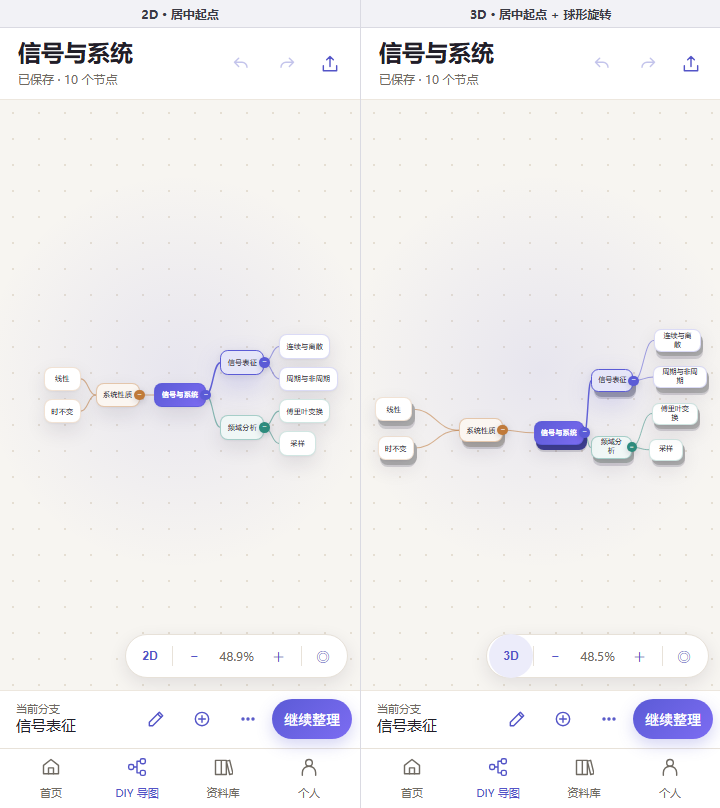
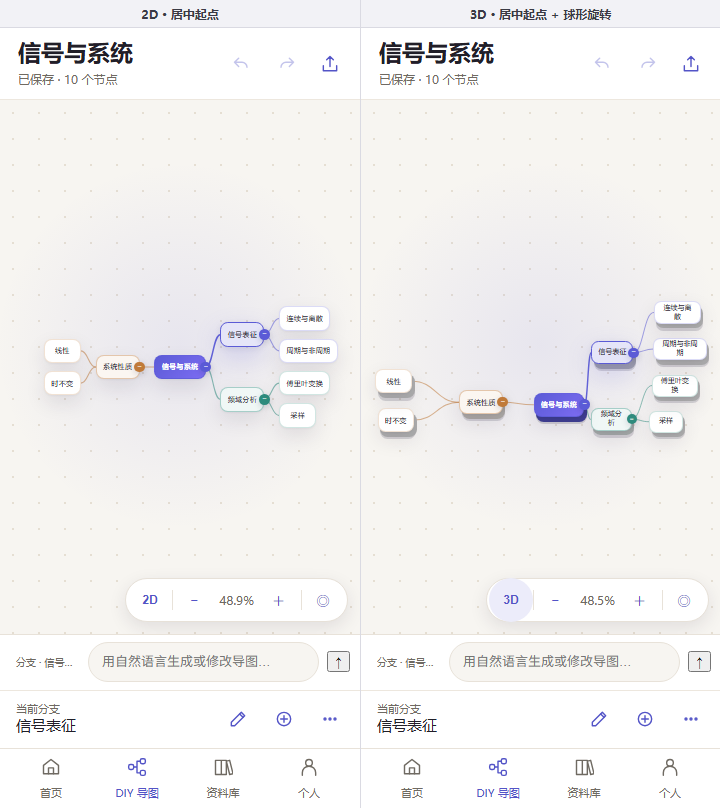
feat(diy): add prominent natural language input
- replace the bottom continue button with a composer showing scope and a natural-language prompt
- open the generation sheet with the input focused and keyboard-ready
- support generating the first map or modifying the whole map/selected branch
- add a simulated candidate flow to the browser preview and document both paths

diff --git a/docs/design/diy-preview.html b/docs/design/diy-preview.html
@@ -40,6 +40,23 @@
   .card.image-card .label{display:block;white-space:nowrap;overflow:hidden;text-overflow:ellipsis;font-weight:500;line-height:1.25}
   .card.image-card .note{display:block;white-space:nowrap;overflow:hidden;text-overflow:ellipsis;color:var(--muted);margin-top:2px;line-height:1.3}
   .card.image-card .tag{position:absolute;top:6px;right:6px;background:rgba(83,84,199,.92);color:#fff;padding:1px 5px;border-radius:6px;font-size:.72em;font-weight:500}
+  .candidate-bar{position:absolute;left:12px;right:12px;top:10px;z-index:4500;background:var(--surface);
+    border:1px solid var(--border);border-radius:16px;padding:12px 14px;box-shadow:0 10px 28px rgba(35,32,60,.14)}
+  .candidate-head{display:flex;align-items:center;justify-content:space-between;gap:8px;font-size:12px;color:var(--muted)}
+  .candidate-head b{font-size:13px;color:var(--accent)}
+  .candidate-bar p{margin:8px 0 10px;font-size:13px;line-height:1.55;color:var(--text)}
+  .candidate-actions{display:flex;gap:8px}
+  .candidate-actions button{height:36px;border:0;border-radius:12px;padding:0 14px;font-size:13px;background:var(--bg);color:var(--text)}
+  .candidate-actions .primary{background:var(--accent);color:#fff;font-weight:600;flex:1}
+  .nl-bar{height:56px;flex:0 0 56px;display:flex;align-items:center;gap:8px;padding:6px 10px 8px 16px;
+    background:var(--surface);border-top:.5px solid var(--border)}
+  .nl-scope{font-size:10px;line-height:1.2;color:var(--muted);max-width:64px;overflow:hidden;text-overflow:ellipsis;white-space:nowrap}
+  .nl-bar input{flex:1;min-width:0;height:40px;border:1px solid var(--border);border-radius:20px;padding:0 13px;
+    background:var(--bg);color:var(--text);font-size:13px}
+  .nl-bar input:focus-visible{outline:2px solid var(--accent);outline-offset:1px}
+  .nl-send{width:40px;height:40px;flex:0 0 40px;border:0;border-radius:20px;background:var(--accent);color:#fff;
+    font-size:18px;font-weight:600;padding:0}
+  html[data-style=soft] .nl-send{background:linear-gradient(135deg,#5B5BD6,#7C6CF2);box-shadow:0 5px 14px rgba(91,91,214,.24)}
   .zoom{position:absolute;right:12px;bottom:12px;height:44px;display:flex;align-items:center;background:var(--surface);
     border:.5px solid var(--border);border-radius:22px;padding:0 2px;z-index:5000;box-shadow:0 2px 10px #0001}
   .zoom button{width:44px;height:44px;border:0;background:transparent;color:var(--accent);display:grid;place-items:center;padding:0;border-radius:22px}
@@ -111,6 +128,14 @@
       <main class="canvas" id="canvas">
         <svg id="edges" aria-hidden="true"></svg>
         <div id="cards"></div>
+        <div class="candidate-bar" id="candidate-bar" hidden>
+          <div class="candidate-head"><b>候选预览</b><span>模拟 AI 修改</span></div>
+          <p id="candidate-text"></p>
+          <div class="candidate-actions">
+            <button id="candidate-discard">放弃</button>
+            <button id="candidate-apply" class="primary">确认应用</button>
+          </div>
+        </div>
         <div class="zoom">
           <button class="mode" id="mode-btn" title="切换 2D / 3D">2D</button>
           <i></i>
@@ -121,12 +146,16 @@
           <button id="fit" aria-label="适应画布">◎</button>
         </div>
       </main>
+      <div class="nl-bar">
+        <span class="nl-scope" id="nl-scope">整张导图</span>
+        <input id="nl-input" autocomplete="off" placeholder="用自然语言生成或修改导图…">
+        <button id="nl-send" aria-label="发送自然语言指令">↑</button>
+      </div>
       <footer class="foot">
         <div class="copy"><label id="scope-label">当前分支</label><strong id="selected-label">信号表征</strong></div>
         <button class="ib" aria-label="编辑"><svg class="icon" viewBox="0 0 24 24"><path d="M4 20h4L20 8l-4-4L4 16v4Z"/><path d="m14 6 4 4"/></svg></button>
         <button class="ib" aria-label="添加子节点"><svg class="icon" viewBox="0 0 24 24"><circle cx="12" cy="12" r="8"/><path d="M12 8v8M8 12h8"/></svg></button>
         <button class="ib" aria-label="更多"><svg class="icon" viewBox="0 0 24 24"><circle cx="6" cy="12" r="1.2"/><circle cx="12" cy="12" r="1.2"/><circle cx="18" cy="12" r="1.2"/></svg></button>
-        <button class="chat">继续整理</button>
       </footer>
       <nav class="nav">
         <div><svg class="icon" viewBox="0 0 24 24"><path d="m3 10 9-7 9 7v10H3Z"/><path d="M9 20v-7h6v7"/></svg>首页</div>
@@ -249,7 +278,8 @@
     zoom: 1,
     panX: 0,
     panY: 0,
-    rotation: orientationMatrix(initialYaw, initialPitch)
+    rotation: orientationMatrix(initialYaw, initialPitch),
+    pending: null
   };
   document.documentElement.dataset.style = state.style;
   if (params.get('embed') === '1') document.body.classList.add('embed');
@@ -258,6 +288,11 @@
   const edges = document.getElementById('edges');
   const cards = document.getElementById('cards');
   const zoomLabel = document.getElementById('zoom-label');
+  const nlInput = document.getElementById('nl-input');
+  const nlSend = document.getElementById('nl-send');
+  const nlScope = document.getElementById('nl-scope');
+  const candidateBar = document.getElementById('candidate-bar');
+  const candidateText = document.getElementById('candidate-text');
 
   function nodeLines(text) {
     const lines = [];
@@ -735,6 +770,8 @@
     const whole = selectedNode.id === rootId;
     document.getElementById('selected-label').textContent = selectedNode.text;
     document.getElementById('scope-label').textContent = whole ? '整张导图' : '当前分支';
+    nlScope.textContent = whole ? '整图' : '分支';
+    nlScope.title = whole ? '整张导图' : '当前分支 · ' + selectedNode.text;
     document.getElementById('status').textContent = '已保存 · ' + scene.nodes.length + ' 个节点';
     zoomLabel.textContent = state.zoom > 0 ? (Math.round(state.zoom * 1000) / 10) + '%' : '—';
     document.getElementById('meta-mode').textContent = state.mode === '3d' ? '3D' : '2D';
@@ -774,6 +811,9 @@
     nodes = sample === 'complex' ? complexNodes : simpleNodes;
     state.selectedId = 'signal';
     state.initialized = false;
+    state.pending = null;
+    candidateBar.hidden = true;
+    nlInput.value = '';
     updateUrl();
     settleView();
   }
@@ -816,6 +856,56 @@
     target.collapsed = !target.collapsed;
     render();
   });
+  let nlBusy = false;
+  function sendNaturalLanguage() {
+    const text = nlInput.value.trim();
+    if (!text || nlBusy || state.pending) return;
+    const parentId = state.selectedId;
+    const parent = nodes.find(node => node.id === parentId) || nodes[0];
+    nlBusy = true;
+    nlInput.disabled = true;
+    nlSend.disabled = true;
+    nlSend.textContent = '…';
+    candidateBar.hidden = true;
+    setTimeout(() => {
+      nlBusy = false;
+      nlInput.disabled = false;
+      nlSend.disabled = false;
+      nlSend.textContent = '↑';
+      state.pending = {parentId, text};
+      const short = text.length > 36 ? text.slice(0, 36) + '…' : text;
+      candidateText.textContent = `在“${parent.text}”下新增分支：“${short}”`;
+      candidateBar.hidden = false;
+      nlInput.value = '';
+    }, 520);
+  }
+  function applyNaturalLanguage() {
+    const pending = state.pending;
+    if (!pending) return;
+    const parent = nodes.find(node => node.id === pending.parentId) || nodes[0];
+    const siblings = nodes.filter(node => node.parentId === parent.id);
+    const order = siblings.reduce((max, node) => Math.max(max, node.order + 1), 0);
+    const id = 'nl_' + Date.now().toString(36);
+    nodes.push({id, parentId: parent.id, order, text: pending.text.slice(0, 30),
+      note: '由自然语言生成（模拟）', collapsed: false});
+    parent.collapsed = false;
+    state.pending = null;
+    candidateBar.hidden = true;
+    state.selectedId = id;
+    render();
+    focusOn(id, 0.62);
+  }
+  function discardNaturalLanguage() {
+    state.pending = null;
+    candidateBar.hidden = true;
+    nlInput.focus();
+  }
+  nlSend.addEventListener('click', sendNaturalLanguage);
+  nlInput.addEventListener('keydown', event => {
+    if (event.key === 'Enter') { event.preventDefault(); sendNaturalLanguage(); }
+  });
+  document.getElementById('candidate-apply').addEventListener('click', applyNaturalLanguage);
+  document.getElementById('candidate-discard').addEventListener('click', discardNaturalLanguage);
   document.querySelectorAll('[data-style]').forEach(button => button.addEventListener('click', () => setStyle(button.dataset.style)));
   document.querySelectorAll('[data-sample]').forEach(button => button.addEventListener('click', () => setSample(button.dataset.sample)));
   document.querySelectorAll('[data-mode]').forEach(button => button.addEventListener('click', () => setMode(button.dataset.mode)));
@@ -856,6 +946,12 @@
   window.addEventListener('resize', () => settleView());
 
   settleView();
+  if (params.get('nl') === 'demo') {
+    setTimeout(() => {
+      nlInput.value = '为每个分支补充一个工程例子';
+      sendNaturalLanguage();
+    }, 200);
+  }
 })();
 </script>
 </body>

diff --git a/docs/implementation/diy-result.md b/docs/implementation/diy-result.md
@@ -45,4 +45,5 @@
 - **空图提示**：仅单根节点时显示“从根节点开始”，不拦截画布手势。
 - **2D / 3D 双视图**：缩放条最左侧新增切换按钮。2D 保持文档的向右/向下平面树；3D 改用居中双向布局，根节点位于场景中心和轨道原点，一级分支左右交替展开。3D 使用 3×3 朝向矩阵和透视相机，默认朝向为 yaw −20° / pitch 20°。节点按 `(x, y, depth*70)` 投影并透视缩放，投影前按层级展开树间距避免卡片重叠。卡片保持正面朝向，绘制“投影阴影 + 右下厚度面 + 顶面”，按相机深度从远到近绘制，选中卡片补绘到最上。
 - **3D 交互**：单指拖动按轨迹球自由旋转——拖动方向决定相机空间旋转轴，没有俯仰上限，也没有万向锁；双指拖动平移、双指捏合缩放；右下角“复位”恢复默认朝向并适应画布。连线、徽标、选中路径和命中测试都使用投影坐标；导出仍使用完整 2D 树。
+- **自然语言输入**：DIY 底部新增常驻入口（修改范围 + “用自然语言生成或修改导图…” + 发送图标）。点击打开“自然语言生成与修改”面板并自动聚焦输入框；空白导图可直接描述主题生成，已有导图按整图或选中分支修改。复用既有 onGenerate、候选预览/应用/放弃、进度/取消/错误流程。
 - **验证**：`npm run check` 通过；`npm test` 132 项全部通过（画布 40 项）。新增 16 项画布测试覆盖隐藏后代计数、选中分支、折叠徽标，以及 3D 居中双向布局、根节点轨道中心、轨迹球旋转、200/500 节点适应、3D 命中、3D 绘制、500 卡片绘制、旋转手势、默认角度不重叠和 2D/3D 切换。本机无 HarmonyOS SDK/真机，未做 ArkTS 编译、原生预览、键盘与手势验收；[2D/3D 对照图](../design/README.md)由预览页面生成，不是原生截图。

diff --git a/docs/design/README.md b/docs/design/README.md
@@ -7,6 +7,7 @@
 - 点击 `2D / 3D` 切换平面画布和球形旋转透视画布；3D 根节点固定在画面中心；
 - 2D 拖动平移；3D 单指拖动像转球一样自由旋转，滚轮缩放，点 `◎` 适应画布，点 `复位球体` 回到默认朝向；
 - 点击节点选中，点击节点右侧 `− / +N` 折叠或展开分支；
+- 底部自然语言入口可以输入“为每个分支补充一个工程例子”等指令，模拟 AI 候选并确认应用；[直接打开候选演示](diy-preview.html?mode=2d&style=soft&nl=demo)；
 - 切换居中起点 / 向右 / 向下布局；居中起点把根节点放在场景和轨道中心，一级分支左右展开。
 - 切换 `柔和立体 / 克制` 两种外观。
 
@@ -25,6 +26,14 @@
 - **克制**：之前的暖白 + 蓝色强调，单色连线，适合更安静的阅读。
 
 两个主题都可在预览页切换。**原生画布目前仍是单色“克制”风格，柔和立体主题尚未接入原生**；确认方向后再移植 Canvas 绘制、分支色和阴影。
+
+## 自然语言输入
+
+- DIY 底部常驻“用自然语言生成或修改导图…”入口，左侧显示整图/分支范围，点击打开输入面板并自动聚焦。
+- 输入指令后预览页会模拟进度和候选：可以放弃，或确认应用后在选中节点下新增分支。
+- 本地演示：[diy-preview.html?mode=2d&style=soft&nl=demo](diy-preview.html?mode=2d&style=soft&nl=demo)
+- 静态截图：[diy-nl-preview.png](diy-nl-preview.png)
+- 预览页是模拟候选；原生 DIY 已接 `onGenerate`、真实模型请求、候选预览/应用/放弃和撤销流程。
 
 ## 复杂图像节点原型
 

diff --git a/docs/screenshots/README.md b/docs/screenshots/README.md
@@ -11,4 +11,4 @@
 
 [320 × 640 vp 小屏首页](home-small.jpg) · [深色画布](diy-dark.jpg) · [飞书计划与逐页微调说明](https://nankai.feishu.cn/wiki/NVVxw1k9Sifu0okTLslcz0dRnbh)
 
-> 2026-11-23：DIY 画布已改为“克制层级”视觉（选中分支整条高亮、一级节点细描边、折叠徽标显示隐藏数量、底部单行工具栏），并新增 2D / 3D 切换；3D 支持根节点居中、单指球形旋转、双指平移/缩放和复位视角。本目录现有 `diy*.jpg` 是调整前的原生预览，不能代表新视觉；候选确认、键盘弹出和真机手势截图仍待 SDK/设备补拍，详见 [DIY 设计说明](../implementation/diy-design.md)。[2D/3D 对照图](../design/README.md)由预览页面生成，不是原生截图。
+> 2026-11-23：DIY 画布已改为“克制层级”视觉（选中分支整条高亮、一级节点细描边、折叠徽标显示隐藏数量），底部新增常驻自然语言入口，并新增 2D / 3D 切换；3D 支持根节点居中、单指球形旋转、双指平移/缩放和复位视角。本目录现有 `diy*.jpg` 是调整前的原生预览，不能代表新视觉；候选确认、键盘弹出和真机手势截图仍待 SDK/设备补拍，详见 [DIY 设计说明](../implementation/diy-design.md)。[2D/3D 对照图](../design/README.md)由预览页面生成，不是原生截图。

diff --git a/docs/implementation/diy-design.md b/docs/implementation/diy-design.md
@@ -44,6 +44,14 @@
 
 对照预览：[2D / 3D 设计预览](../design/README.md)（浏览器复刻，非原生截图）。
 
+## 自然语言输入
+
+- 底部常驻一条自然语言入口：左侧是修改范围（整张导图 / 分支 · 节点名），中间显示“用自然语言生成或修改导图…”，右侧是发送图标。
+- 点击入口打开“自然语言生成与修改”面板，输入框自动获得焦点并弹出键盘；空白导图时提示可以输入一个主题生成第一张导图。
+- 输入框上限 20,000 字；空输入不可发送；生成中显示进度和取消；失败保留输入和对话；候选先在画布预览，确认应用或放弃，AI 修改作为一次撤销单元。
+- 面板顶部继续显示修改范围，非根节点可切换“改为整图”；发送失败、取消、候选过期等状态与原有对话流程一致。
+- 原生实现复用 `onGenerate` → Index 的请求/候选编排；新增的只是入口、自动聚焦和文案，没有新增模型调用路径。
+
 ## 页面结构
 
 ```text

diff --git a/docs/部署与演示.md b/docs/部署与演示.md
@@ -44,7 +44,7 @@ npm run build:harmony
 
 ### 2. 对话修改、冲突与撤销
 
-选择一个非根分支 → 打开继续整理 → 确认范围为“选中分支” → 输入“补充三个工程应用” → 画布显示候选 → 确认应用 → 撤销一次恢复原分支。将范围改成整张导图，再做结构重组。请求期间手动编辑节点，旧候选必须提示过期并拒绝覆盖；取消请求后输入、对话与已有图仍在。
+选择一个非根分支 → 点底部“用自然语言生成或修改导图…” → 输入框自动聚焦，确认范围为“选中分支” → 输入“补充三个工程应用” → 画布显示候选 → 确认应用 → 撤销一次恢复原分支。将范围改成整张导图，再做结构重组。请求期间手动编辑节点，旧候选必须提示过期并拒绝覆盖；取消请求后输入、对话与已有图仍在。
 
 ### 3. 本地恢复与导出
 

diff --git a/README.md b/README.md
@@ -1,6 +1,6 @@
 # FlowSpace · AI 思维导图
 
-在鸿蒙手机上把一个主题或一段长文整理成树状导图。画布支持 2D 平面和球形自由旋转、根节点居中的 3D 卡片两种视图，可以选中分支继续对话，先预览 AI 的修改，再决定是否应用。节点可手动增删、改名、移动或折叠。文档保存在本机，支持 PNG 全图、Markdown 和 JSON 备份。
+在鸿蒙手机上把一个主题或一段长文整理成树状导图。画布支持 2D 平面和球形自由旋转、根节点居中的 3D 卡片两种视图；DIY 页底部可直接用自然语言生成或修改导图，先预览 AI 的修改，再决定是否应用。节点可手动增删、改名、移动或折叠。文档保存在本机，支持 PNG 全图、Markdown 和 JSON 备份。
 
 ## 在电脑上试一遍
 
